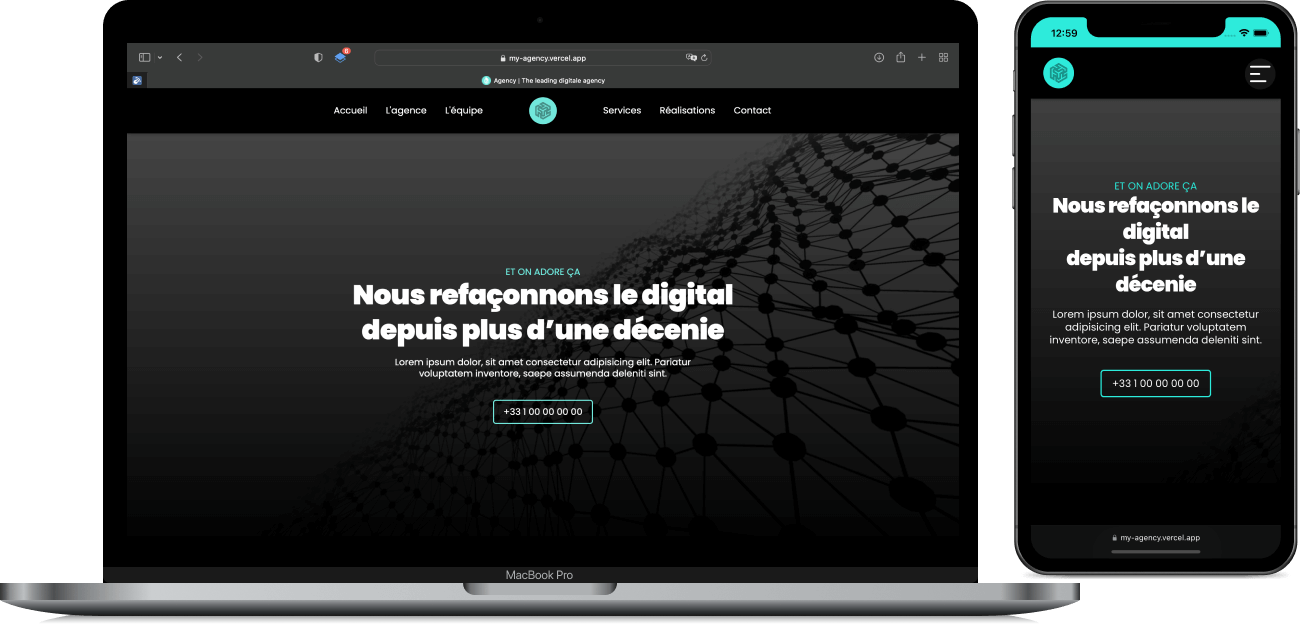
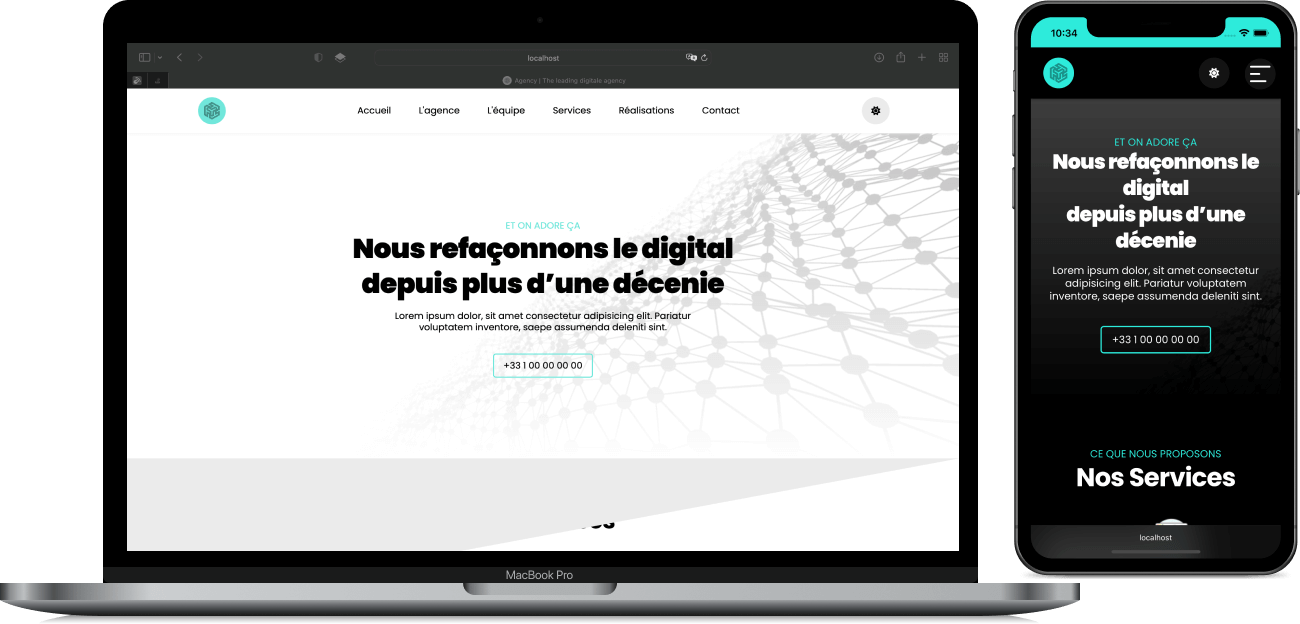
adds light and dark mode support

diff --git a/components/Header/Header.tsx b/components/Header/Header.tsx
@@ -4,6 +4,20 @@ import { useEffect, useRef, useState } from "react";
 export default function Header() {
   const [showNav, setShowNav] = useState(false);
   const headerRef = useRef<HTMLElement>(null);
+  let savedTheme: string;
+  try {
+    const savedItem = localStorage.getItem("theme") || "";
+    savedTheme = ["dark", "light"].includes(savedItem) ? savedItem : "dark";
+  } catch (error) {
+    savedTheme = "dark";
+  }
+  const [theme, setTheme] = useState<string>(savedTheme);
+
+  useEffect(() => {
+    localStorage.setItem("theme", theme);
+    document.documentElement.setAttribute("data-theme", theme || "");
+  }, [theme]);
+
   useEffect(() => {
     window.addEventListener("scroll", () => {
       if (window.pageYOffset > 50) {
@@ -22,43 +36,44 @@ export default function Header() {
   return (
     <header className="header" ref={headerRef}>
       <div className="container">
-        <nav onClick={() => setShowNav(true)}>
-          <div className="left">
-            <div>
-              <a href="">Accueil</a>
-            </div>
-            <div>
-              <a href="">L&apos;agence</a>
-            </div>
-            <div>
-              <a href="">L&apos;équipe</a>
-            </div>
-          </div>
-          <a href="" className="brand">
-            <img src="/logo.svg" alt="" />
-          </a>
-          <div className="right">
-            <div>
-              <a href="">Services</a>
-            </div>
-
-            <div>
-              <a href="">Réalisations</a>
-            </div>
-
-            <div>
-              <a href="">Contact</a>
-            </div>
-          </div>
-        </nav>
         <a href="" className="brand">
           <img src="/logo.svg" alt="" />
         </a>
-        <button className="hamburger" onClick={toggleNav}>
-          <span className="bar bar1"></span>
-          <span className="bar bar2"></span>
-          <span className="bar bar3"></span>
-        </button>
+        <nav onClick={() => setShowNav(true)}>
+          <a href="">Accueil</a>
+          <a href="">L&apos;agence</a>
+          <a href="">L&apos;équipe</a>
+          <a href="">Services</a>
+          <a href="">Réalisations</a>
+          <a href="">Contact</a>
+        </nav>
+        <div className="buttons">
+          <button
+            className="theme-toggler"
+            onClick={() => setTheme(theme == "dark" ? "light" : "dark")}
+          >
+            {theme === "dark" ? (
+              <svg xmlns="http://www.w3.org/2000/svg" viewBox="0 0 512 512">
+                <path
+                  fill="currentColor"
+                  d="M361.5 1.2c5 2.1 8.6 6.6 9.6 11.9L391 121l107.9 19.8c5.3 1 9.8 4.6 11.9 9.6s1.5 10.7-1.6 15.2L446.9 256l62.3 90.3c3.1 4.5 3.7 10.2 1.6 15.2s-6.6 8.6-11.9 9.6L391 391 371.1 498.9c-1 5.3-4.6 9.8-9.6 11.9s-10.7 1.5-15.2-1.6L256 446.9l-90.3 62.3c-4.5 3.1-10.2 3.7-15.2 1.6s-8.6-6.6-9.6-11.9L121 391 13.1 371.1c-5.3-1-9.8-4.6-11.9-9.6s-1.5-10.7 1.6-15.2L65.1 256 2.8 165.7c-3.1-4.5-3.7-10.2-1.6-15.2s6.6-8.6 11.9-9.6L121 121 140.9 13.1c1-5.3 4.6-9.8 9.6-11.9s10.7-1.5 15.2 1.6L256 65.1 346.3 2.8c4.5-3.1 10.2-3.7 15.2-1.6zM352 256c0 53-43 96-96 96s-96-43-96-96s43-96 96-96s96 43 96 96zm32 0c0-70.7-57.3-128-128-128s-128 57.3-128 128s57.3 128 128 128s128-57.3 128-128z"
+                />
+              </svg>
+            ) : (
+              <svg xmlns="http://www.w3.org/2000/svg" viewBox="0 0 384 512">
+                <path
+                  fill="currentColor"
+                  d="M223.5 32C100 32 0 132.3 0 256S100 480 223.5 480c60.6 0 115.5-24.2 155.8-63.4c5-4.9 6.3-12.5 3.1-18.7s-10.1-9.7-17-8.5c-9.8 1.7-19.8 2.6-30.1 2.6c-96.9 0-175.5-78.8-175.5-176c0-65.8 36-123.1 89.3-153.3c6.1-3.5 9.2-10.5 7.7-17.3s-7.3-11.9-14.3-12.5c-6.3-.5-12.6-.8-19-.8z"
+                />
+              </svg>
+            )}
+          </button>
+          <button className="hamburger" onClick={toggleNav}>
+            <span className="bar bar1"></span>
+            <span className="bar bar2"></span>
+            <span className="bar bar3"></span>
+          </button>
+        </div>
       </div>
     </header>
   );

diff --git a/components/Header/Header.scss b/components/Header/Header.scss
@@ -6,12 +6,11 @@
   z-index: 99;
   height: 5rem;
   padding: 0 1rem;
-  background-color: var(--black);
-  box-shadow: 0 0 5px var(--light-black);
+  background-color: var(--background);
+  box-shadow: 0 0 5px var(--secondary);
 
   &.scrolled {
-    background-color: var(--black);
-    box-shadow: 0 0 5px var(--light-black);
+    box-shadow: 0 0 5px var(--secondary);
   }
 
   .container {
@@ -33,21 +32,8 @@
     }
   }
 
-  .buttons {
-    margin-left: auto;
-    display: flex;
-    justify-content: center;
-    align-items: center;
-  }
-
-  .call-to-action {
-    margin-right: 1rem;
-    display: none;
-    z-index: 99;
-  }
-
   nav {
-    background-color: var(--light-black);
+    background-color: var(--secondary);
     position: fixed;
     z-index: 9;
     top: 0;
@@ -61,26 +47,37 @@
     font-size: 1.1rem;
     clip-path: circle(1.5rem at calc(100% - 2rem) 2.6rem);
     transition: clip-path 0.5s ease;
-    color: var(--white);
+    color: var(--forground);
     cursor: pointer;
 
-    .brand {
-      display: none;
-    }
-
-    > div div:not(:last-child) {
+    > a {
       margin-bottom: 1.5rem;
       padding-bottom: 1.5rem;
-      border-bottom: 1px solid var(--white);
+      border-bottom: 1px solid var(--forground);
     }
 
-    > div div:first-child {
+    > a:first-child {
+      border-top: 1px solid var(--forground);
       padding-top: 1.5rem;
-      border-top: 1px solid var(--white);
     }
+  }
 
-    > div div:last-child {
-      padding-bottom: 1.5rem;
+  .buttons {
+    display: flex;
+    align-items: center;
+    gap: 2rem;
+  }
+
+  .theme-toggler {
+    background-color: var(--secondary);
+    display: grid;
+    place-items: center;
+    width: 3rem;
+    height: 3rem;
+    border-radius: 50%;
+
+    svg {
+      width: 1rem;
     }
   }
 
@@ -97,7 +94,7 @@
       display: block;
       height: 3px;
       width: 100%;
-      background-color: var(--white);
+      background-color: var(--forground);
       position: absolute;
       border-radius: 5px;
       pointer-events: none;
@@ -150,18 +147,12 @@
   @media screen and (min-width: 1024px) {
     & {
       .container {
-        justify-content: center;
         align-items: center;
         max-width: 1200px;
         margin: 0 auto;
       }
 
       .hamburger {
-        display: none;
-      }
-
-      .brand {
-        margin: 0 auto;
         display: none;
       }
 
@@ -173,21 +164,16 @@
       nav {
         position: static;
         z-index: unset;
-        width: 100%;
+        width: auto;
         height: auto;
         padding: 0;
         clip-path: circle(100%);
-        display: grid;
-        grid-template-columns: 1fr auto 1fr;
-        gap: 2rem;
+        flex-direction: row;
+        gap: 1rem;
         font-size: 1rem;
         background-color: transparent;
         color: inherit;
         cursor: default;
-
-        .brand {
-          display: flex;
-        }
 
         > div {
           display: flex;
@@ -198,7 +184,7 @@
           }
         }
 
-        div {
+        a {
           margin: 0 1rem !important;
           padding: 0 !important;
           border: none !important;

diff --git a/components/Services/Services.scss b/components/Services/Services.scss
@@ -1,6 +1,6 @@
 .services {
   text-align: center;
-  background-color: var(--black);
+  background-color: var(--background);
   padding: 4rem 1rem;
   clip-path: polygon(100% 100%, 0 100%, 0 0, 100% 0);
 
@@ -15,9 +15,9 @@
     position: relative;
 
     .card {
-      background-color: var(--white);
+      background-color: var(--forground);
       border-radius: 1rem;
-      color: var(--black);
+      color: var(--background);
       position: relative;
       max-width: 250px;
       padding: 2rem 1rem 1rem;

diff --git a/components/Team/Team.scss b/components/Team/Team.scss
@@ -1,6 +1,6 @@
 .team {
   padding: 4rem 1rem;
-  background-color: var(--black);
+  background-color: var(--background);
 
   .cards {
     margin-top: 2rem;
@@ -9,7 +9,7 @@
   }
 
   .card {
-    background-color: var(--light-black);
+    background-color: var(--secondary);
     padding: 2rem;
     border-radius: 1rem;
     max-height: 170px;

diff --git a/components/Footer/Footer.scss b/components/Footer/Footer.scss
@@ -1,5 +1,5 @@
 .footer {
-  background-color: var(--black);
+  background-color: var(--background);
 
   .content {
     max-width: 1200px;
@@ -37,7 +37,7 @@
   }
 
   .copyright {
-    background-color: var(--light-black);
+    background-color: var(--secondary);
     padding: 1rem;
     font-size: 0.9rem;
   }

diff --git a/components/Hero/Hero.scss b/components/Hero/Hero.scss
@@ -9,6 +9,10 @@
   background-image: linear-gradient(rgba(0 0 0 / 70%), rgba(0 0 0 / 100%)), url("/hero.png");
   background-size: cover;
 
+  [data-theme="light"] & {
+    background-image: linear-gradient(rgb(255 255 255 / 70%), rgb(255 255 255)), url("/hero.png");
+  }
+
   .content {
     padding: 0 1rem;
 

diff --git a/styles/variables.scss b/styles/variables.scss
@@ -1,6 +1,12 @@
 :root {
   --primary: #2debdb;
-  --black: black;
-  --light-black: rgb(20 20 20);
-  --white: white;
+  --background: black;
+  --secondary: rgb(20 20 20);
+  --forground: white;
+}
+
+[data-theme="light"] {
+  --background: white;
+  --forground: black;
+  --secondary: rgb(235 235 235);
 }

diff --git a/styles/globals.scss b/styles/globals.scss
@@ -25,8 +25,8 @@ html {
 }
 
 body {
-  background-color: var(--light-black);
-  color: var(--white);
+  background-color: var(--secondary);
+  color: var(--forground);
   font-family: Poppins, sans-serif;
   line-height: 1.3;
 }

diff --git a/components/Loader/Loader.scss b/components/Loader/Loader.scss
@@ -2,7 +2,7 @@
   position: fixed;
   top: 0;
   right: 0;
-  background-color: var(--black);
+  background-color: var(--background);
   width: 100%;
   height: 100%;
   z-index: 999999;

diff --git a/components/Projects/Projects.scss b/components/Projects/Projects.scss
@@ -1,6 +1,6 @@
 .projects {
-  background-color: var(--black);
-  padding: 4rem 0;
+  background-color: var(--background);
+  padding: 4rem 1rem;
 
   .cards {
     max-width: auto;
